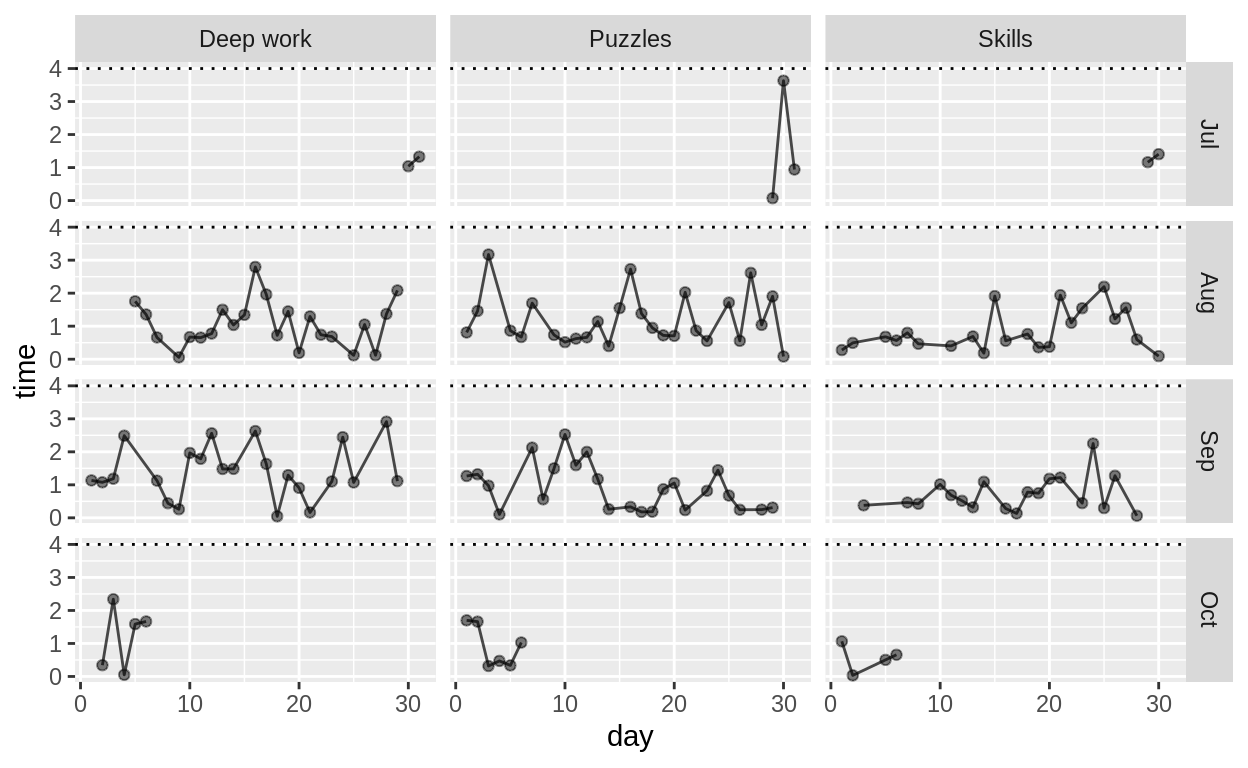
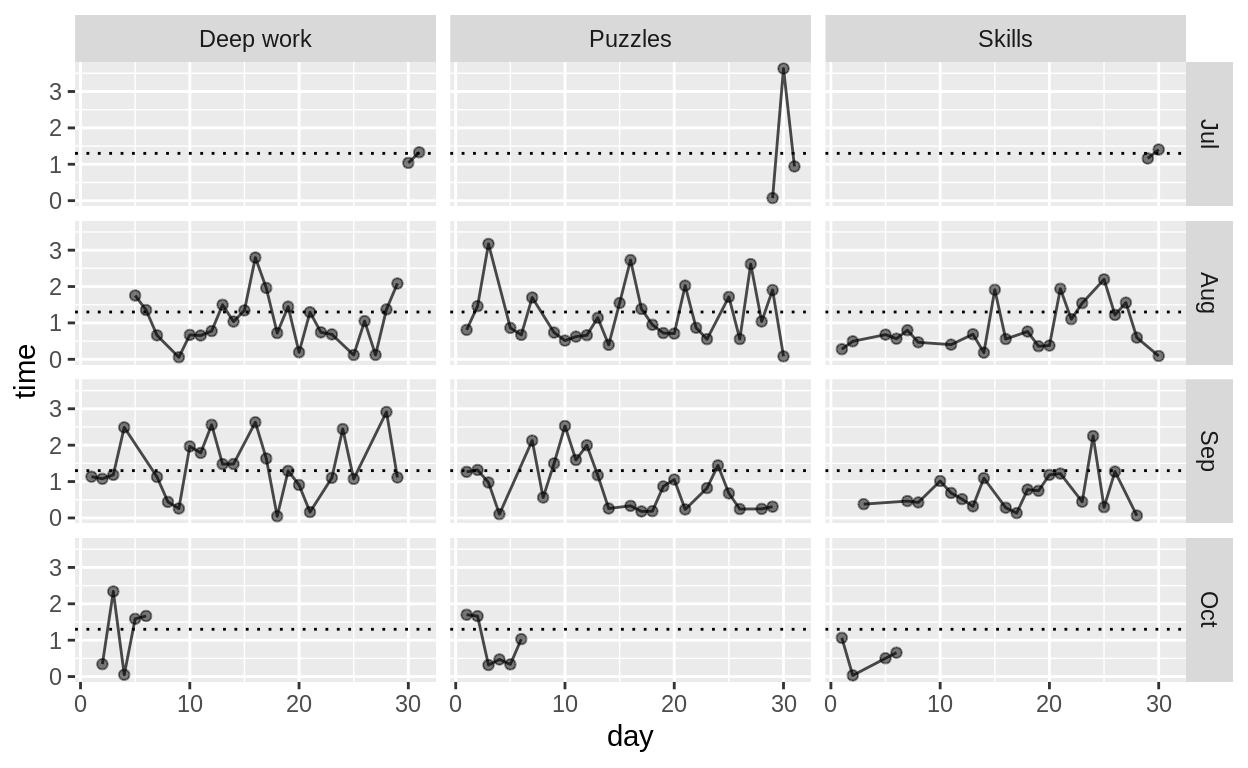
:art: #2 fixed intercept  :notes:

diff --git a/_site/index.html b/_site/index.html
@@ -1388,7 +1388,7 @@ tracker_data %&gt;%
   ggplot(aes(x = day, y = time)) +
   geom_line(alpha = 0.7) +
   geom_point(alpha = 0.5) +
-  geom_hline(yintercept = 4, linetype = &quot;dotted&quot;) +
+  geom_hline(yintercept = 1.3, linetype = &quot;dotted&quot;) +
   facet_grid(month ~ category)</code></pre>
 <p><img src="index_files/figure-html5/unnamed-chunk-3-2.png" width="624" /></p>
 </div>
